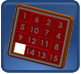
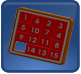
puzzle

diff --git a/src/main/webapp/js/Tab/Puzzle.js b/src/main/webapp/js/Tab/Puzzle.js
@@ -1,0 +1,113 @@
+var board = new Array();
+var emptyIdX = "3";
+var emptyIdY = "3";
+var puzzleBoardId = createPuzzleBoard();
+
+$(document).ready(function() {
+
+	puzGetBoard();
+});
+
+function puzGetBoard() {
+
+	$.get("PuzzleGetBoard.html", function(response) {
+
+		board = response;
+		for ( var i = 0; i < puzzleBoardId.length; i++) {
+			for ( var j = 0; j < puzzleBoardId[i].length; j++) {
+				puzzleBoardId[i][j] = board[(j + 1 + (4 * (i))) - 1];
+			}
+		}
+
+		puzzleBoardId[3][3] = 0;
+
+		for ( var i = 0; i < puzzleBoardId.length; i++) {
+			for ( var j = 0; j < puzzleBoardId[i].length; j++) {
+				if (i != 3 || j != 3)
+					$('#PX' + i + 'PY' + j + '> img').attr(
+							'src',
+							'images/Tab/puzzle/number_'
+									+ board[(j + 1 + (4 * (i))) - 1] + '.png');
+			}
+		}
+
+		$('#PX3PY3').css('background-image', 'url()');
+
+	});
+}
+
+function makeMove(id) {
+
+	var xCoord = puzParseX(id);
+	var yCoord = puzParseY(id);
+
+	if ((parseInt(xCoord) + 1 == emptyIdX && yCoord == emptyIdY)
+			|| (parseInt(xCoord) - 1 == emptyIdX && yCoord == emptyIdY)
+			|| (parseInt(yCoord) + 1 == emptyIdY && xCoord == emptyIdX)
+			|| (parseInt(yCoord) - 1 == emptyIdY && xCoord == emptyIdX)) {
+
+		$('#' + id).css('background-image', 'url()');
+		$('#' + id + '> img').attr('src', '');
+		$('#PX' + emptyIdX + 'PY' + emptyIdY + '> img').attr(
+				'src',
+				'images/Tab/puzzle/number_' + puzzleBoardId[xCoord][yCoord]
+						+ '.png');
+		$('#PX' + emptyIdX + 'PY' + emptyIdY).css(
+				'background-image',
+				'url(http://' + location.hostname + ':' + location.port
+						+ '/School/images/Tab/puzzle/number_background.png)');
+
+		var temp = puzzleBoardId[emptyIdX][emptyIdY];
+		puzzleBoardId[emptyIdX][emptyIdY] = puzzleBoardId[xCoord][yCoord];
+		puzzleBoardId[xCoord][yCoord] = temp;
+
+		emptyIdX = xCoord;
+		emptyIdY = yCoord;
+
+		if (isEndOfGame()) {
+			alert("YOU WIN");
+			tabGoTo(homeLink);
+		}
+
+	}
+
+}
+
+function isEndOfGame() {
+
+	for ( var i = 0; i < puzzleBoardId.length; i++) {
+		for ( var j = 0; j < puzzleBoardId[i].length; j++) {
+			if (i != 3 || j != 3) {
+				if (puzzleBoardId[i][j] != (j + 1 + (4 * (i))))
+					return false;
+			}
+		}
+	}
+
+	return true;
+
+}
+
+function createPuzzleBoard() {
+	var board = new Array();
+	for ( var i = 0; i < 4; i++) {
+		board[i] = new Array();
+		for ( var j = 0; j < 4; j++) {
+			board[i][j] = 0;
+		}
+	}
+	return board;
+}
+
+function puzParseX(strPoint) {
+
+	var indexX = strPoint.indexOf('X');
+	var indexY = strPoint.indexOf('Y');
+	return strPoint.substring(indexX + 1, indexY - 1);
+}
+
+function puzParseY(strPoint) {
+
+	var indexY = strPoint.indexOf('Y');
+	return strPoint.substring(indexY + 1);
+}

diff --git a/src/main/webapp/css/Tab/Puzzle.css b/src/main/webapp/css/Tab/Puzzle.css
@@ -1,0 +1,32 @@
+#puzzle {
+	background-image: url('../../images/Tab/puzzle/background.png');
+	background-repeat: no-repeat;
+	height: 430px;
+	width: 270px;
+	position: absolute;
+}
+
+#puzzleTable td {
+	width: 56px;
+	height: 51px;
+	vertical-align: middle;
+	text-align: center;
+}
+
+
+.puzzleNumber {
+	background-image: url('../../images/Tab/puzzle/number_background.png');
+	background-repeat: no-repeat;
+}
+
+.puzzleNumber:hover {
+	background-image: url('../../images/Tab/puzzle/number_background_hover.png');
+	background-repeat: no-repeat;
+}
+
+#puzzleTable{
+	position: absolute;
+	margin: 117px 33px;
+	widht: 265px;
+	height: 204px;
+}

diff --git a/src/main/java/epam/ph/sg/web/controllers/PuzzleController.java b/src/main/java/epam/ph/sg/web/controllers/PuzzleController.java
@@ -1,27 +1,35 @@
 package epam.ph.sg.web.controllers;
 
+import java.util.List;
+
 import javax.servlet.http.HttpServletRequest;
 
 import org.apache.log4j.Logger;
+import org.springframework.stereotype.Controller;
 import org.springframework.web.bind.annotation.RequestMapping;
+import org.springframework.web.bind.annotation.ResponseBody;
 
 import epam.ph.sg.models.User;
+import epam.ph.sg.utils.PuzzleUtils;
 
+@Controller
 public class PuzzleController {
 
 	private static Logger log = Logger.getLogger(PuzzleController.class);
 
 	@RequestMapping("/PuzzleGame.html")
 	public String menu(HttpServletRequest request) {
-		User user = (User) request.getSession().getAttribute("user");
-		if (user != null) {
-			log.info(request.getRequestURI() + " request received. User id="
-					+ user.getId());
-		} else {
-			log.info(request.getRequestURI() + " request received.");
-		}
+		
+		System.out.println("+_+_+_+_+_+_+_+_+_+_+_+_+_+_+_+_+_+_+_+_+_+_+_+_");
 
 		return "Tab/Puzzle";
+	}
+	
+	@RequestMapping("/PuzzleGetBoard.html")
+	public @ResponseBody List<Integer> getBoard(HttpServletRequest request) {
+
+		List<Integer> board = PuzzleUtils.getBoard();
+		return board;	
 	}
 
 }

diff --git a/src/main/java/epam/ph/sg/utils/PuzzleUtils.java b/src/main/java/epam/ph/sg/utils/PuzzleUtils.java
@@ -1,0 +1,44 @@
+package epam.ph.sg.utils;
+
+import java.util.ArrayList;
+import java.util.List;
+import java.util.Random;
+
+public class PuzzleUtils {
+
+	public static List<Integer> getBoard() {
+		
+		List<Integer> board = new ArrayList<Integer>();
+		
+		for (int i = 0; i < 15; i++) {
+			board.add(getRandomUniqueNumber(board));
+		}
+		
+		return board;
+		
+	}
+	
+	private static int getRandomUniqueNumber(List<Integer> board) {
+		
+		Random randomGenerator = new Random();
+		int number = 0;
+		
+		while(true) {
+			
+			number = randomGenerator.nextInt(15)+1;
+			if (!isNumberInBoard(number, board)) {
+				return number;
+			}
+		}
+	}
+	
+	private static boolean isNumberInBoard(int number, List<Integer> board) {
+		
+		for (int i = 0; i < board.size(); i++) {
+			if (board.get(i) == number)
+				return true;
+		}
+		
+		return false;
+	}
+}
